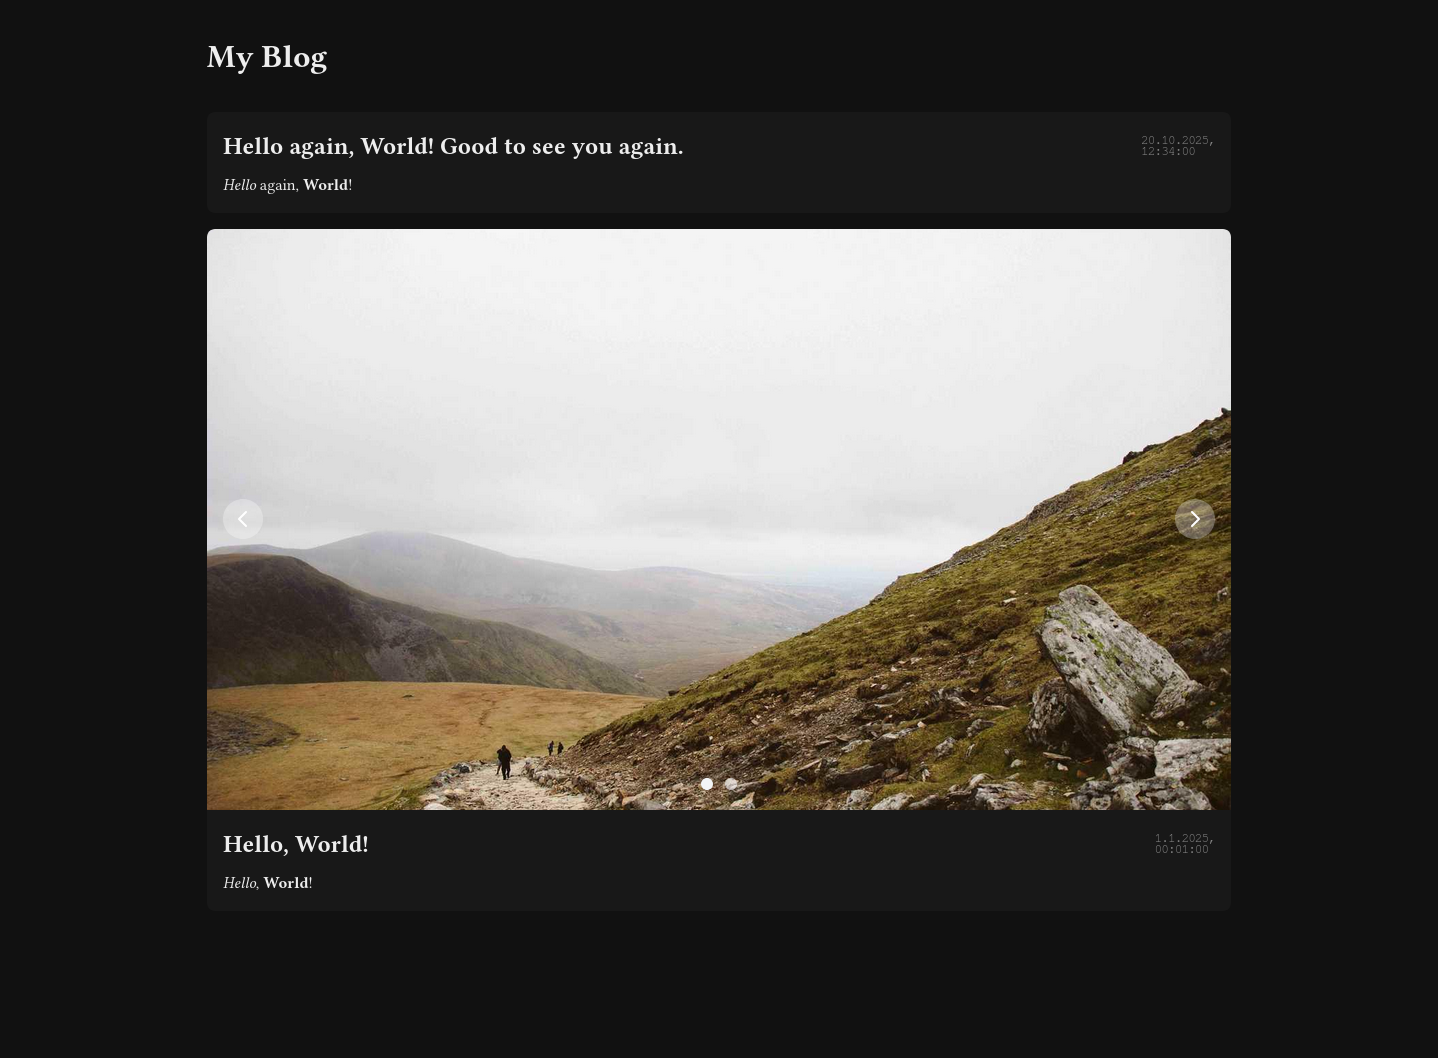
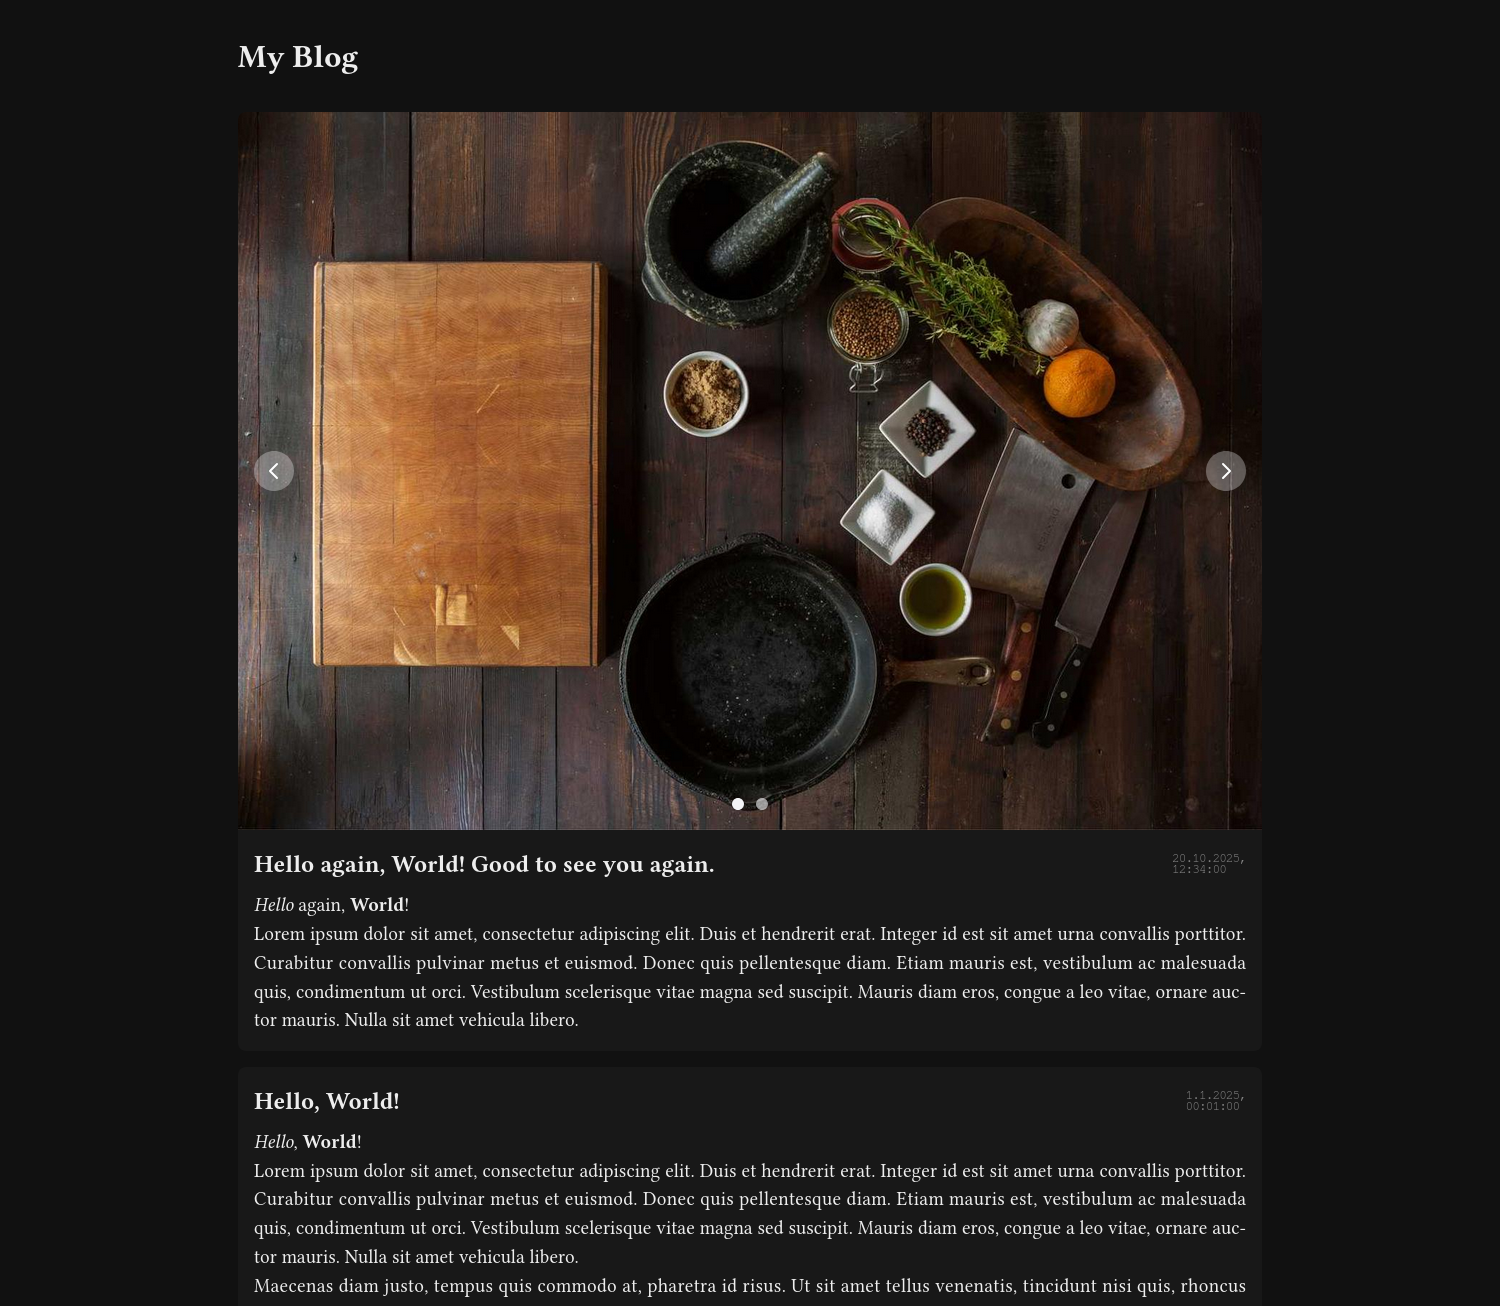
Added custom language and justified text support

diff --git a/src/lib/server/configuration.ts b/src/lib/server/configuration.ts
@@ -2,10 +2,12 @@ import fs from "fs";
 import yaml from "yaml";
 
 const DEFAULT_BLOG_TITLE = "Blog";
+const DEFAULT_BLOG_LANGUAGE = "en";
 const DEFAULT_STYLESHEETS = ["default.css"];
 
 export type BlogConfiguration = {
     title: string;
+    language: string;
     stylesheets: string[];
 }
 
@@ -15,6 +17,7 @@ export function loadConfiguration(): BlogConfiguration {
     if (!configuration) {
         configuration = {
             title: DEFAULT_BLOG_TITLE,
+            language: DEFAULT_BLOG_LANGUAGE,
             stylesheets: DEFAULT_STYLESHEETS,
         };
     }

diff --git a/src/hooks.server.ts b/src/hooks.server.ts
@@ -1,0 +1,8 @@
+import { loadConfiguration, type BlogConfiguration } from "$lib/server/configuration";
+
+export function handle({ event, resolve }) {
+    const configuration: BlogConfiguration = loadConfiguration();
+    return resolve(event, {
+        transformPageChunk: ({ html }) => html.replace('%lang%', configuration.language)
+    });
+}

diff --git a/content/style/default.css b/content/style/default.css
@@ -119,3 +119,10 @@ body {
     letter-spacing: -0.075em;
     opacity: 0.5;
 }
+
+.post-content {
+    font-size: 1.2rem;
+    text-align: justify;
+    text-justify: inter-character;
+    hyphens: auto;
+}

diff --git a/src/app.html b/src/app.html
@@ -1,5 +1,5 @@
 <!doctype html>
-<html lang="en">
+<html lang="%lang%">
 
 <head>
 	<meta charset="utf-8" />

diff --git a/content/posts/HelloWorld2.md b/content/posts/HelloWorld2.md
@@ -1,6 +1,12 @@
 ---
-title: Hello again, World! Good to see you again.
-datetime: 2025-10-20 12:34
+title: Hello, World!
+datetime: 2025-01-01 00:01
 ---
 
-*Hello* again, **World**!
+*Hello*, **World**!
+
+ Lorem ipsum dolor sit amet, consectetur adipiscing elit. Duis et hendrerit erat. Integer id est sit amet urna convallis porttitor. Curabitur convallis pulvinar metus et euismod. Donec quis pellentesque diam. Etiam mauris est, vestibulum ac malesuada quis, condimentum ut orci. Vestibulum scelerisque vitae magna sed suscipit. Mauris diam eros, congue a leo vitae, ornare auctor mauris. Nulla sit amet vehicula libero.
+
+Maecenas diam justo, tempus quis commodo at, pharetra id risus. Ut sit amet tellus venenatis, tincidunt nisi quis, rhoncus odio. Ut enim mi, consequat non lectus a, dignissim efficitur augue. Vivamus non dolor non velit mollis pretium et eget metus. Ut sit amet eros nisi. Aenean ut placerat augue, ac porttitor leo. Aliquam feugiat mi et placerat cursus. Class aptent taciti sociosqu ad litora torquent per conubia nostra, per inceptos himenaeos. Quisque quis lectus tortor. Vestibulum vehicula nulla vitae eros venenatis dignissim. Donec sed elit metus. Integer eget erat elit. Praesent a enim pharetra, scelerisque tellus nec, feugiat erat. Donec egestas quis risus a finibus. Maecenas lobortis semper neque, eget auctor tellus condimentum ac. Proin ligula ante, condimentum et urna non, laoreet vehicula nisi.
+
+In ut rhoncus nulla, eu maximus enim. Integer convallis fermentum sem quis vestibulum. Donec convallis venenatis ex. Nunc congue justo arcu. Nunc sed ornare nibh. Donec tincidunt arcu nec lorem sagittis condimentum vitae ut ligula. Vivamus mauris lorem, tempus non sem vitae, pulvinar porta diam. Proin bibendum mi sapien, sit amet vestibulum ante luctus nec. Donec efficitur quam dui, et tincidunt libero viverra eu. Aliquam sit amet leo cursus, vulputate odio sed, pellentesque nibh. Integer nec eleifend erat, eu congue lacus. Etiam nunc ex, dapibus quis nulla quis, ultricies porta quam. Ut aliquet interdum metus, a rhoncus lacus molestie nec. Maecenas non orci viverra, tristique risus vitae, laoreet metus. Etiam sit amet orci nec ante euismod volutpat vel sit amet lectus. Nunc pretium risus purus, sit amet elementum sapien tempor pretium. 

diff --git a/content/posts/HelloWorld.md b/content/posts/HelloWorld.md
@@ -1,6 +1,6 @@
 ---
-title: Hello, World!
-datetime: 2025-01-01 00:01
+title: Hello again, World! Good to see you again.
+datetime: 2025-10-20 12:34
 images:
   - src: https://picsum.photos/1500/1000
     alt: Example image
@@ -10,4 +10,6 @@ images:
     title: Another example image
 ---
 
-*Hello*, **World**!
+*Hello* again, **World**!
+
+ Lorem ipsum dolor sit amet, consectetur adipiscing elit. Duis et hendrerit erat. Integer id est sit amet urna convallis porttitor. Curabitur convallis pulvinar metus et euismod. Donec quis pellentesque diam. Etiam mauris est, vestibulum ac malesuada quis, condimentum ut orci. Vestibulum scelerisque vitae magna sed suscipit. Mauris diam eros, congue a leo vitae, ornare auctor mauris. Nulla sit amet vehicula libero.

diff --git a/README.md b/README.md
@@ -49,6 +49,7 @@ Images referenced with relative paths such as `example.png` in the example above
 
 In `content/configuration.yaml`, you can make some customisations:
 - `title`: The title of your blog, which is displayed at the very top of the page as well as on the tab.
+- `language`: The language code of your blog, which is used in the `<html lang="%lang%">` tag and affects the text hyphenation.
 - `stylesheets`: A list of stylesheets to be used. These can be absolute URLs for CDNs or relative URLs for CSS files placed in `content/style`.
 
 ## Development
